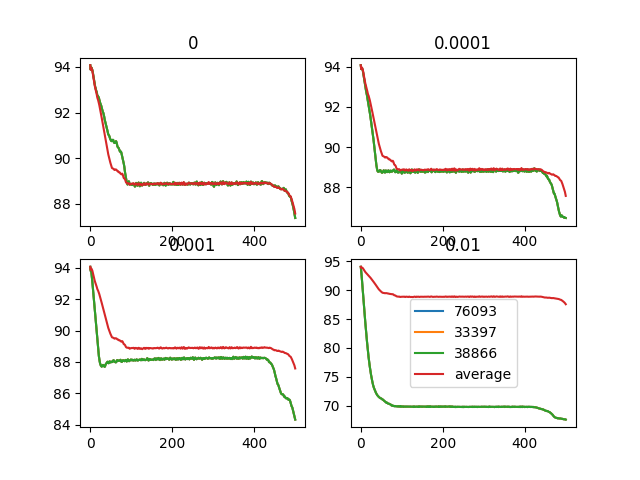
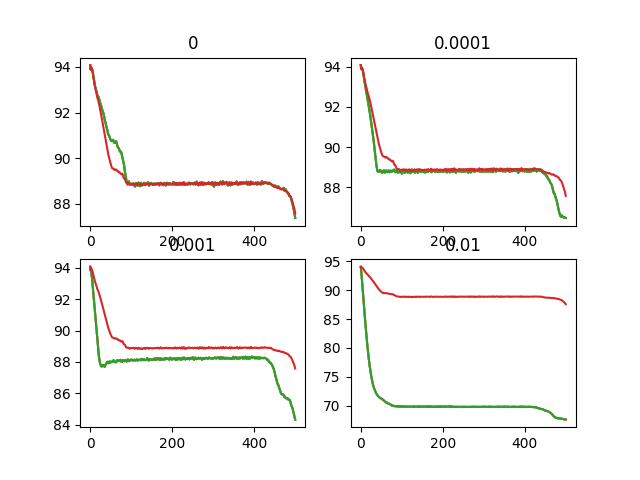
more plot tweaks

Changed region(s): [[0.6562, 0.625, 0.8125, 0.8125], [0.6562, 0.625, 0.6875, 0.6562]]

diff --git a/python/post/max_z.py b/python/post/max_z.py
@@ -55,7 +55,8 @@ def plot_max_z(asperities, uc, temp, time, initnum):
         avg_max.append(np.mean(heights, axis = 0))
         axs[i].set_title(str(force))
         axs[i].plot(frames, avg_max[0], label = 'average')
-        plt.legend()
+        axs[i].get_legend()
+        #plt.legend()
     plt.savefig('test.png')
 if __name__ == '__main__':
     asperities = 8
